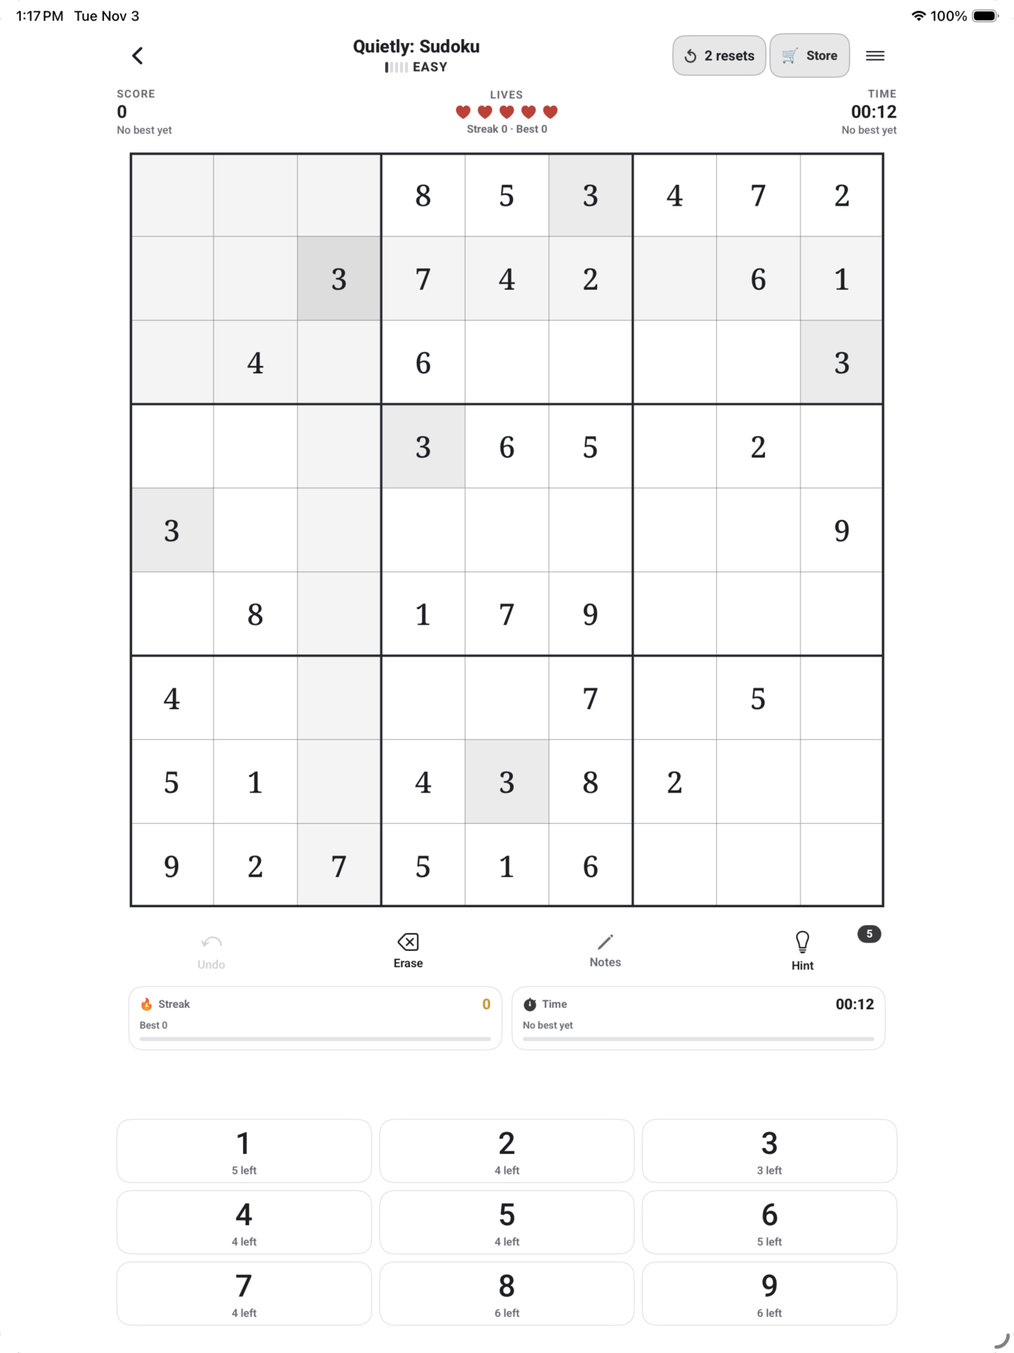
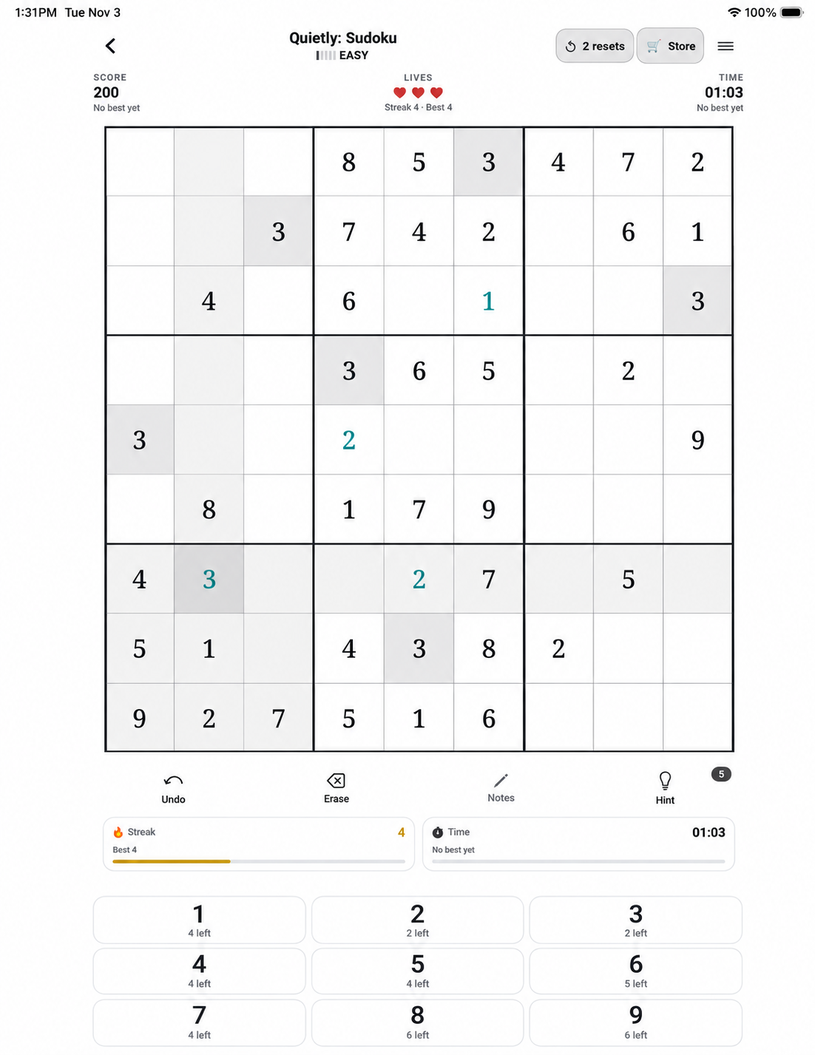
Add files via upload

diff --git a/index.html b/index.html
@@ -3,8 +3,8 @@
 <head>
   <meta charset="utf-8">
   <meta name="viewport" content="width=device-width, initial-scale=1">
-  <title>Quietly: Sudoku — a calm, ad-free Sudoku for iPhone, iPad &amp; Mac</title>
-  <meta name="description" content="A calm Sudoku for iPhone, iPad and Mac. Five levels, daily puzzles, hints that teach the next step, and no ads.">
+  <title>Quietly: Sudoku — calm, ad-free Sudoku for iPhone and iPad</title>
+  <meta name="description" content="A calm Sudoku for iPhone and iPad, with Mac coming soon. Five levels, daily puzzles, hints that teach the next step, and no ads.">
   <meta name="theme-color" content="#FFFFFF">
   <meta name="apple-itunes-app" content="app-id=6821949804">
   <link rel="canonical" href="https://astronomiku.github.io/QuietlySudoku/">
@@ -44,23 +44,32 @@
           <ul class="pills" aria-label="Highlights">
             <li>No ads</li><li>No account</li><li>Five levels</li><li>Daily puzzles</li><li>Plays offline</li>
           </ul>
-          <div class="cta"><a class="store-badge" href="https://apps.apple.com/us/app/quietly-sudoku/id6821949804" aria-label="Download Quietly: Sudoku for iPhone and iPad on the App Store"><img src="https://tools.applemarketingtools.com/api/badges/download-on-the-app-store/black/en-us?size=250x83" alt="Download on the App Store" width="160" height="53"></a><span>Free for iPhone &amp; iPad · No ads<br><span class="soon-note">Mac version coming soon</span></span></div>
+          <div class="cta"><a class="store-badge" href="https://apps.apple.com/us/app/quietly-sudoku/id6821949804" aria-label="Download Quietly: Sudoku for iPhone and iPad on the App Store"><span><small>Download on the</small>App Store</span></a><span>Free for iPhone &amp; iPad · No ads<br><span class="soon-note">Mac version coming soon</span></span></div>
         </div>
       </div>
 
-      <div class="devices" aria-label="Quietly: Sudoku on each device">
-        <figure class="device mac" style="--ar:2360/1696;--g:1.3915">
-          <img src="assets/screenshots/mac-game.png" alt="A Sudoku game in progress in Quietly: Sudoku on Mac" width="2360" height="1696">
-          <figcaption><strong>Mac <em class="soon-tag">Coming soon</em></strong><span>macOS 15 or later</span></figcaption>
-        </figure>
-        <figure class="device ipad" style="--ar:1372/1830;--g:0.7497">
-          <img src="assets/screenshots/ipad-game.png" alt="A new Easy puzzle in Quietly: Sudoku on iPad" width="1372" height="1830">
-          <figcaption><strong>iPad</strong><span>iPadOS 18 or later</span></figcaption>
-        </figure>
-        <figure class="device iphone" style="--ar:880/1912;--g:0.4603">
-          <img src="assets/screenshots/iphone-game.png" alt="A Sudoku game with notes in Quietly: Sudoku on iPhone" width="880" height="1912">
-          <figcaption><strong>iPhone</strong><span>iOS 18 or later</span></figcaption>
-        </figure>
+      <div class="device-carousel" aria-roledescription="carousel" aria-label="Quietly: Sudoku on each device" tabindex="0">
+        <div class="device-stage">
+          <button class="device-arrow device-previous" type="button" aria-label="Previous device">←</button>
+          <figure class="device iphone" data-device="iPhone">
+            <img src="assets/screenshots/iphone-game.png" alt="A Sudoku game with notes in Quietly: Sudoku on iPhone" width="880" height="1912" decoding="async">
+            <figcaption><strong>iPhone</strong><span>iOS 18 or later</span></figcaption>
+          </figure>
+          <figure class="device ipad" data-device="iPad" hidden>
+            <img src="assets/screenshots/ipad-game.png" alt="An Easy puzzle in Quietly: Sudoku on iPad with teal player entries" width="1102" height="1427" decoding="async">
+            <figcaption><strong>iPad</strong><span>iPadOS 18 or later</span></figcaption>
+          </figure>
+          <figure class="device mac" data-device="Mac" hidden>
+            <img src="assets/screenshots/mac-game.png" alt="Preview of a Sudoku game in Quietly: Sudoku for Mac" width="2360" height="1696" decoding="async">
+            <figcaption><strong>Mac <em class="soon-tag">Coming soon</em></strong><span>macOS 15 or later</span></figcaption>
+          </figure>
+          <button class="device-arrow device-next" type="button" aria-label="Next device">→</button>
+        </div>
+        <div class="device-dots" role="group" aria-label="Choose a device">
+          <button class="active" type="button" data-device-index="0" aria-label="Show iPhone" aria-current="true"></button>
+          <button type="button" data-device-index="1" aria-label="Show iPad" aria-current="false"></button>
+          <button type="button" data-device-index="2" aria-label="Show Mac" aria-current="false"></button>
+        </div>
       </div>
     </header>
 
@@ -83,7 +92,7 @@
       </div>
       <div class="feature-grid">
         <article><span class="glyph" aria-hidden="true">?</span><h3>Hints that teach</h3><p>Step-by-step clues point you to the deduction first, so you learn the technique instead of copying the answer.</p></article>
-        <article><span class="glyph" aria-hidden="true">5</span><h3>Graded by logic</h3><p>Puzzles are graded by the techniques it takes to solve them, not by how many clues they show.</p></article>
+        <article><span class="glyph" aria-hidden="true">5</span><h3>Graded by logic</h3><p>Puzzles are graded by the techniques they take to solve, not by how many clues they show.</p></article>
         <article><span class="glyph" aria-hidden="true">✎</span><h3>Your notes, your work</h3><p>Pencil marks are never filled in for you. The solving stays yours.</p></article>
         <article><span class="glyph" aria-hidden="true">↺</span><h3>Records, not rankings</h3><p>Best scores, best times and clean streaks, measured only against yourself.</p></article>
         <article><span class="glyph" aria-hidden="true">Aa</span><h3>Play your way</h3><p>Six calm board themes including a low-glare dark one, larger numbers, left-handed controls and sound you can switch off.</p></article>
@@ -106,7 +115,7 @@
         <div class="carousel-stage">
           <button class="carousel-arrow previous" type="button" aria-label="Previous screenshot">←</button>
           <figure>
-            <div class="carousel-image"><img src="assets/screenshots/iphone-home.png" alt="Quietly: Sudoku home screen on iPhone showing five difficulty levels"></div>
+            <div class="carousel-image"><img src="assets/screenshots/iphone-home.png" alt="Quietly: Sudoku home screen on iPhone showing five difficulty levels" decoding="async"></div>
             <figcaption><span class="carousel-platform">iPhone</span><strong class="carousel-title">Five levels with clear progression</strong><small class="carousel-count" aria-live="polite">1 / 6</small></figcaption>
           </figure>
           <button class="carousel-arrow next" type="button" aria-label="Next screenshot">→</button>
@@ -132,7 +141,7 @@
       <div>
         <p class="eyebrow">Free on the App Store</p>
         <h2>Give every puzzle<br><em>room to breathe.</em></h2>
-        <div class="cta"><a class="store-badge" href="https://apps.apple.com/us/app/quietly-sudoku/id6821949804" aria-label="Download Quietly: Sudoku for iPhone and iPad on the App Store"><img src="https://tools.applemarketingtools.com/api/badges/download-on-the-app-store/black/en-us?size=250x83" alt="Download on the App Store" width="160" height="53"></a><span>Available now for iPhone &amp; iPad. Mac coming soon.<br>Questions or ideas? <a href="support/">Get in touch</a>.</span></div>
+        <div class="cta"><a class="store-badge" href="https://apps.apple.com/us/app/quietly-sudoku/id6821949804" aria-label="Download Quietly: Sudoku for iPhone and iPad on the App Store"><span><small>Download on the</small>App Store</span></a><span>Available now for iPhone &amp; iPad. Mac coming soon.<br>Questions or ideas? <a href="support/">Get in touch</a>.</span></div>
       </div>
     </section>
   </main>

diff --git a/styles.css b/styles.css
@@ -1,11 +1,7 @@
-/* Quietly: Sudoku — site styles in the app's Classic theme (Theme.swift → classic). */
 :root{
   color-scheme:light;
-  /* Matches what the app actually draws for Classic (Theme.swift: shared light
-     palette + Classic accents). Keep the two in sync. */
   --bg:#FFFFFF;--surface:#FFFFFF;--ink:#1C1E23;--muted:#676B73;
-  --thick:#25272D;--thin:#D8DBE1;--peer:#F3F4F6;--same:#E3E3E4;--sel:#D4D4D4;--sel-fg:#2C2C2E;
-  --entry:#007C83;--err:#C9342F;--err-bg:#FBE8E6;--border:#E2E4E8;--soft:#E7E7E8;--accent:#3A3A3C;
+  --thin:#D8DBE1;--border:#E2E4E8;--accent:#3A3A3C;
   --serif:"Noto Serif",Georgia,serif;
   --sans:Roboto,-apple-system,BlinkMacSystemFont,"Segoe UI",sans-serif;
 }
@@ -48,28 +44,6 @@ h1 em,h2 em{font-family:var(--serif);font-style:italic;font-weight:400;letter-sp
 .pills li{border:1px solid var(--thin);border-radius:999px;padding:7px 14px;background:var(--surface);font-weight:500;font-size:.88rem}
 .soon{display:inline-flex;align-items:center;gap:10px;margin:34px 0 0;padding:10px 16px;border:1px solid var(--thin);border-radius:999px;background:var(--surface);color:var(--ink);font-weight:500;font-size:.92rem}
 .soon::before{content:"";width:8px;height:8px;border-radius:50%;background:var(--accent)}
-
-/* Live board (mirrors the in-app Classic board) */
-.board-wrap{margin:0}
-.board{display:grid;grid-template-columns:repeat(9,1fr);aspect-ratio:1;background:var(--surface);border:3px solid var(--thick);border-radius:4px;box-shadow:0 30px 60px -30px rgba(28,30,35,.35);user-select:none}
-.board button{appearance:none;position:relative;display:grid;place-items:center;min-width:0;padding:0;border:0;border-right:1px solid var(--thin);border-bottom:1px solid var(--thin);background:var(--surface);color:var(--ink);font:400 clamp(1.05rem,3.4vw,1.85rem)/1 var(--serif);cursor:pointer;transition:background-color .15s}
-.board button:nth-child(9n){border-right:0}
-.board button:nth-child(9n+3),.board button:nth-child(9n+6){border-right:2px solid var(--thick)}
-.board button:nth-child(n+19):nth-child(-n+27),.board button:nth-child(n+46):nth-child(-n+54){border-bottom:2px solid var(--thick)}
-.board button:nth-child(n+73){border-bottom:0}
-.board button.peer{background:var(--peer)}
-.board button.same{background:var(--same);font-weight:600}
-.board button.sel{background:var(--sel);color:var(--sel-fg)}
-.board button.entry{color:var(--entry)}
-.board button.err{background:var(--err-bg);color:var(--err);text-decoration:underline;text-decoration-thickness:2px;text-underline-offset:4px}
-.board button.notes{grid-template-columns:repeat(3,1fr);grid-template-rows:repeat(3,1fr);place-items:center;font-size:clamp(.5rem,1.1vw,.68rem);color:var(--muted)}
-.board-wrap figcaption{display:flex;flex-wrap:wrap;gap:6px 18px;margin-top:16px;color:var(--muted);font-size:.84rem}
-.key{display:inline-flex;align-items:center;gap:7px}
-.key i{display:inline-block;width:12px;height:12px;border-radius:3px;border:1px solid var(--thin)}
-.key .k-given{background:var(--ink);border-color:var(--ink)}
-.key .k-entry{background:var(--entry);border-color:var(--entry)}
-.key .k-err{background:var(--err);border-color:var(--err)}
-.key .k-peer{background:var(--peer)}
 
 /* How it plays */
 .steps{display:grid;grid-template-columns:repeat(4,minmax(0,1fr));gap:0;margin:0;padding:0;list-style:none;counter-reset:step;border-top:2px solid var(--ink)}
@@ -172,25 +146,38 @@ h1 em,h2 em{font-family:var(--serif);font-style:italic;font-weight:400;letter-sp
 .cta{display:flex;flex-wrap:wrap;align-items:center;gap:14px 20px;margin-top:34px}
 .closing .cta{margin-top:22px}
 .cta>span{color:var(--muted);font-size:.92rem}
-.store-badge{display:inline-block;line-height:0;border-radius:10px;transition:opacity .15s}
+.store-badge{display:inline-flex;align-items:center;min-width:160px;min-height:52px;padding:7px 16px;border-radius:10px;background:#000;color:#fff;text-decoration:none;line-height:1;transition:opacity .15s}
 .store-badge:hover{opacity:.82}
-.store-badge img{display:block;width:160px;height:auto;min-height:44px}
+.store-badge>span{display:flex;flex-direction:column;gap:2px;font-size:1.08rem;font-weight:500;letter-spacing:-.02em}
+.store-badge small{font-size:.63rem;font-weight:400;letter-spacing:0}
 .nav-get{color:var(--ink)!important;border:1px solid var(--thin);border-radius:999px;padding:4px 14px;margin:-5px 0;background:var(--surface)}
 @media(max-width:620px){.nav-get{display:none}}
 
-@media(prefers-reduced-motion:reduce){html{scroll-behavior:auto}.board button{transition:none}}
+@media(prefers-reduced-motion:reduce){html{scroll-behavior:auto}}
 
-/* Hero device screenshots: flex-grow = aspect ratio, so all three share one height */
-.devices{display:flex;align-items:flex-end;gap:clamp(16px,3vw,36px)}
-.device{flex:var(--g) 1 0;min-width:0;margin:0}
-.device img{display:block;width:100%;height:auto;aspect-ratio:var(--ar);filter:drop-shadow(0 18px 28px rgba(28,30,35,.16)) drop-shadow(0 0 1px rgba(28,30,35,.35))}
+.device-carousel{padding:24px;border:1px solid var(--border);border-radius:24px;background:var(--surface)}
+.device-stage{position:relative;display:grid;grid-template-columns:minmax(0,1fr);align-items:center;min-height:650px}
+.device{display:grid;place-items:center;min-width:0;margin:0}
+.device[hidden]{display:none}
+.device img{display:block;width:auto;height:auto;max-width:100%;max-height:570px;filter:drop-shadow(0 18px 28px rgba(28,30,35,.16)) drop-shadow(0 0 1px rgba(28,30,35,.35))}
 .device.ipad img{border-radius:12px}
 .device figcaption{display:flex;flex-direction:column;align-items:center;margin-top:18px;text-align:center;line-height:1.3}
 .device figcaption strong{font-size:1rem}
 .device figcaption span{color:var(--muted);font-size:.84rem}
+.device-arrow{position:absolute;top:50%;z-index:2;display:grid;place-items:center;width:48px;height:48px;border:1px solid var(--thin);border-radius:50%;background:rgba(255,255,255,.92);color:var(--ink);font-size:1.2rem;cursor:pointer;transform:translateY(-50%)}
+.device-previous{left:0}
+.device-next{right:0}
+.device-arrow:hover{border-color:var(--ink)}
+.device-dots{display:flex;justify-content:center;gap:9px;margin-top:18px}
+.device-dots button{width:9px;height:9px;padding:0;border:0;border-radius:999px;background:var(--thin);cursor:pointer}
+.device-dots button.active{width:28px;background:var(--ink)}
 @media(max-width:620px){
-  .devices{flex-wrap:wrap;gap:28px 16px}
-  .device.mac{flex-basis:100%}
+  .device-carousel{padding:14px;border-radius:18px}
+  .device-stage{min-height:540px}
+  .device img{max-height:450px}
+  .device-arrow{width:40px;height:40px}
+  .device-previous{left:2px}
+  .device-next{right:2px}
 }
 .soon-note{color:var(--ink);font-weight:500}
 .soon-tag{display:inline-block;margin-left:6px;padding:1px 8px;border:1px solid var(--thin);border-radius:999px;font-style:normal;font-size:.72rem;font-weight:500;color:var(--muted);vertical-align:2px}

diff --git a/carousel.js b/carousel.js
@@ -8,10 +8,8 @@ const screenshots = {
     ["assets/screenshots/iphone-store.png", "Optional extras. No ads, ever.", "Quietly Sudoku optional extras store on iPhone"]
   ],
   iPad: [
-    ["assets/screenshots/ipad-home.png", "Five levels and daily puzzles", "Quietly Sudoku home screen on iPad"],
-    ["assets/screenshots/ipad-game.png", "A spacious board and clear controls", "Quietly Sudoku game board on iPad"],
-    ["assets/screenshots/ipad-hint.png", "Guidance without giving it away", "Quietly Sudoku progressive hint on iPad"],
-    ["assets/screenshots/ipad-settings.png", "Themes and accessible controls", "Quietly Sudoku settings on iPad"]
+    ["assets/screenshots/ipad-game.png", "A spacious board with clear teal entries", "Quietly Sudoku game board on iPad with teal player entries"],
+    ["assets/screenshots/ipad-wrong.png", "Mistakes are clear without being harsh", "Quietly Sudoku game board on iPad showing a red underlined wrong entry on a pale red cell"]
   ],
   Mac: [
     ["assets/screenshots/mac-home.png", "Five levels, daily puzzles, personal records", "Quietly Sudoku home screen on Mac"],
@@ -22,6 +20,49 @@ const screenshots = {
 };
 
 const carousel = document.querySelector(".carousel");
+
+const deviceCarousel = document.querySelector(".device-carousel");
+
+if (deviceCarousel) {
+  const devices = [...deviceCarousel.querySelectorAll(".device")];
+  const dots = [...deviceCarousel.querySelectorAll(".device-dots button")];
+  let deviceIndex = 0;
+  let deviceTouchStart = 0;
+
+  function renderDevice() {
+    devices.forEach((device, index) => { device.hidden = index !== deviceIndex; });
+    dots.forEach((dot, index) => {
+      const active = index === deviceIndex;
+      dot.classList.toggle("active", active);
+      dot.setAttribute("aria-current", String(active));
+    });
+  }
+
+  function moveDevice(direction) {
+    deviceIndex = (deviceIndex + direction + devices.length) % devices.length;
+    renderDevice();
+  }
+
+  dots.forEach((dot, index) => dot.addEventListener("click", () => {
+    deviceIndex = index;
+    renderDevice();
+  }));
+  deviceCarousel.querySelector(".device-previous").addEventListener("click", () => moveDevice(-1));
+  deviceCarousel.querySelector(".device-next").addEventListener("click", () => moveDevice(1));
+  deviceCarousel.addEventListener("keydown", (event) => {
+    if (event.key === "ArrowLeft") moveDevice(-1);
+    if (event.key === "ArrowRight") moveDevice(1);
+  });
+  deviceCarousel.addEventListener("touchstart", (event) => {
+    deviceTouchStart = event.changedTouches[0].clientX;
+  }, { passive: true });
+  deviceCarousel.addEventListener("touchend", (event) => {
+    const distance = event.changedTouches[0].clientX - deviceTouchStart;
+    if (Math.abs(distance) > 45) moveDevice(distance > 0 ? -1 : 1);
+  }, { passive: true });
+
+  renderDevice();
+}
 
 if (carousel) {
   const image = carousel.querySelector(".carousel-image img");
@@ -42,7 +83,11 @@ if (carousel) {
     platformLabel.textContent = platform;
     title.textContent = caption;
     count.textContent = `${index + 1} / ${slides.length}`;
-    tabs.forEach((tab) => tab.classList.toggle("active", tab.dataset.platform === platform));
+    tabs.forEach((tab) => {
+      const active = tab.dataset.platform === platform;
+      tab.classList.toggle("active", active);
+      tab.setAttribute("aria-pressed", String(active));
+    });
     dots.replaceChildren(...slides.map((_, dotIndex) => {
       const dot = document.createElement("button");
       dot.type = "button";

diff --git a/docs/index.html b/docs/index.html
@@ -48,19 +48,28 @@
         </div>
       </div>
 
-      <div class="devices" aria-label="Quietly: Sudoku on each device">
-        <figure class="device mac" style="--ar:2360/1696;--g:1.3915">
-          <img src="assets/screenshots/mac-game.png" alt="Preview of a Sudoku game in Quietly: Sudoku for Mac" width="2360" height="1696" decoding="async">
-          <figcaption><strong>Mac <em class="soon-tag">Coming soon</em></strong><span>macOS 15 or later</span></figcaption>
-        </figure>
-        <figure class="device ipad" style="--ar:1372/1830;--g:0.7497">
-          <img src="assets/screenshots/ipad-game.png" alt="A new Easy puzzle in Quietly: Sudoku on iPad" width="1372" height="1830" decoding="async">
-          <figcaption><strong>iPad</strong><span>iPadOS 18 or later</span></figcaption>
-        </figure>
-        <figure class="device iphone" style="--ar:880/1912;--g:0.4603">
-          <img src="assets/screenshots/iphone-game.png" alt="A Sudoku game with notes in Quietly: Sudoku on iPhone" width="880" height="1912" decoding="async">
-          <figcaption><strong>iPhone</strong><span>iOS 18 or later</span></figcaption>
-        </figure>
+      <div class="device-carousel" aria-roledescription="carousel" aria-label="Quietly: Sudoku on each device" tabindex="0">
+        <div class="device-stage">
+          <button class="device-arrow device-previous" type="button" aria-label="Previous device">←</button>
+          <figure class="device iphone" data-device="iPhone">
+            <img src="assets/screenshots/iphone-game.png" alt="A Sudoku game with notes in Quietly: Sudoku on iPhone" width="880" height="1912" decoding="async">
+            <figcaption><strong>iPhone</strong><span>iOS 18 or later</span></figcaption>
+          </figure>
+          <figure class="device ipad" data-device="iPad" hidden>
+            <img src="assets/screenshots/ipad-game.png" alt="An Easy puzzle in Quietly: Sudoku on iPad with teal player entries" width="1102" height="1427" decoding="async">
+            <figcaption><strong>iPad</strong><span>iPadOS 18 or later</span></figcaption>
+          </figure>
+          <figure class="device mac" data-device="Mac" hidden>
+            <img src="assets/screenshots/mac-game.png" alt="Preview of a Sudoku game in Quietly: Sudoku for Mac" width="2360" height="1696" decoding="async">
+            <figcaption><strong>Mac <em class="soon-tag">Coming soon</em></strong><span>macOS 15 or later</span></figcaption>
+          </figure>
+          <button class="device-arrow device-next" type="button" aria-label="Next device">→</button>
+        </div>
+        <div class="device-dots" role="group" aria-label="Choose a device">
+          <button class="active" type="button" data-device-index="0" aria-label="Show iPhone" aria-current="true"></button>
+          <button type="button" data-device-index="1" aria-label="Show iPad" aria-current="false"></button>
+          <button type="button" data-device-index="2" aria-label="Show Mac" aria-current="false"></button>
+        </div>
       </div>
     </header>
 

diff --git a/docs/carousel.js b/docs/carousel.js
@@ -8,10 +8,8 @@ const screenshots = {
     ["assets/screenshots/iphone-store.png", "Optional extras. No ads, ever.", "Quietly Sudoku optional extras store on iPhone"]
   ],
   iPad: [
-    ["assets/screenshots/ipad-home.png", "Five levels and daily puzzles", "Quietly Sudoku home screen on iPad"],
-    ["assets/screenshots/ipad-game.png", "A spacious board and clear controls", "Quietly Sudoku game board on iPad"],
-    ["assets/screenshots/ipad-hint.png", "Guidance without giving it away", "Quietly Sudoku progressive hint on iPad"],
-    ["assets/screenshots/ipad-settings.png", "Themes and accessible controls", "Quietly Sudoku settings on iPad"]
+    ["assets/screenshots/ipad-game.png", "A spacious board with clear teal entries", "Quietly Sudoku game board on iPad with teal player entries"],
+    ["assets/screenshots/ipad-wrong.png", "Mistakes are clear without being harsh", "Quietly Sudoku game board on iPad showing a red underlined wrong entry on a pale red cell"]
   ],
   Mac: [
     ["assets/screenshots/mac-home.png", "Five levels, daily puzzles, personal records", "Quietly Sudoku home screen on Mac"],
@@ -22,6 +20,49 @@ const screenshots = {
 };
 
 const carousel = document.querySelector(".carousel");
+
+const deviceCarousel = document.querySelector(".device-carousel");
+
+if (deviceCarousel) {
+  const devices = [...deviceCarousel.querySelectorAll(".device")];
+  const dots = [...deviceCarousel.querySelectorAll(".device-dots button")];
+  let deviceIndex = 0;
+  let deviceTouchStart = 0;
+
+  function renderDevice() {
+    devices.forEach((device, index) => { device.hidden = index !== deviceIndex; });
+    dots.forEach((dot, index) => {
+      const active = index === deviceIndex;
+      dot.classList.toggle("active", active);
+      dot.setAttribute("aria-current", String(active));
+    });
+  }
+
+  function moveDevice(direction) {
+    deviceIndex = (deviceIndex + direction + devices.length) % devices.length;
+    renderDevice();
+  }
+
+  dots.forEach((dot, index) => dot.addEventListener("click", () => {
+    deviceIndex = index;
+    renderDevice();
+  }));
+  deviceCarousel.querySelector(".device-previous").addEventListener("click", () => moveDevice(-1));
+  deviceCarousel.querySelector(".device-next").addEventListener("click", () => moveDevice(1));
+  deviceCarousel.addEventListener("keydown", (event) => {
+    if (event.key === "ArrowLeft") moveDevice(-1);
+    if (event.key === "ArrowRight") moveDevice(1);
+  });
+  deviceCarousel.addEventListener("touchstart", (event) => {
+    deviceTouchStart = event.changedTouches[0].clientX;
+  }, { passive: true });
+  deviceCarousel.addEventListener("touchend", (event) => {
+    const distance = event.changedTouches[0].clientX - deviceTouchStart;
+    if (Math.abs(distance) > 45) moveDevice(distance > 0 ? -1 : 1);
+  }, { passive: true });
+
+  renderDevice();
+}
 
 if (carousel) {
   const image = carousel.querySelector(".carousel-image img");

diff --git a/docs/styles.css b/docs/styles.css
@@ -155,17 +155,29 @@ h1 em,h2 em{font-family:var(--serif);font-style:italic;font-weight:400;letter-sp
 
 @media(prefers-reduced-motion:reduce){html{scroll-behavior:auto}}
 
-/* Hero device screenshots: flex-grow = aspect ratio, so all three share one height */
-.devices{display:flex;align-items:flex-end;gap:clamp(16px,3vw,36px)}
-.device{flex:var(--g) 1 0;min-width:0;margin:0}
-.device img{display:block;width:100%;height:auto;aspect-ratio:var(--ar);filter:drop-shadow(0 18px 28px rgba(28,30,35,.16)) drop-shadow(0 0 1px rgba(28,30,35,.35))}
+.device-carousel{padding:24px;border:1px solid var(--border);border-radius:24px;background:var(--surface)}
+.device-stage{position:relative;display:grid;grid-template-columns:minmax(0,1fr);align-items:center;min-height:650px}
+.device{display:grid;place-items:center;min-width:0;margin:0}
+.device[hidden]{display:none}
+.device img{display:block;width:auto;height:auto;max-width:100%;max-height:570px;filter:drop-shadow(0 18px 28px rgba(28,30,35,.16)) drop-shadow(0 0 1px rgba(28,30,35,.35))}
 .device.ipad img{border-radius:12px}
 .device figcaption{display:flex;flex-direction:column;align-items:center;margin-top:18px;text-align:center;line-height:1.3}
 .device figcaption strong{font-size:1rem}
 .device figcaption span{color:var(--muted);font-size:.84rem}
+.device-arrow{position:absolute;top:50%;z-index:2;display:grid;place-items:center;width:48px;height:48px;border:1px solid var(--thin);border-radius:50%;background:rgba(255,255,255,.92);color:var(--ink);font-size:1.2rem;cursor:pointer;transform:translateY(-50%)}
+.device-previous{left:0}
+.device-next{right:0}
+.device-arrow:hover{border-color:var(--ink)}
+.device-dots{display:flex;justify-content:center;gap:9px;margin-top:18px}
+.device-dots button{width:9px;height:9px;padding:0;border:0;border-radius:999px;background:var(--thin);cursor:pointer}
+.device-dots button.active{width:28px;background:var(--ink)}
 @media(max-width:620px){
-  .devices{flex-wrap:wrap;gap:28px 16px}
-  .device.mac{flex-basis:100%}
+  .device-carousel{padding:14px;border-radius:18px}
+  .device-stage{min-height:540px}
+  .device img{max-height:450px}
+  .device-arrow{width:40px;height:40px}
+  .device-previous{left:2px}
+  .device-next{right:2px}
 }
 .soon-note{color:var(--ink);font-weight:500}
 .soon-tag{display:inline-block;margin-left:6px;padding:1px 8px;border:1px solid var(--thin);border-radius:999px;font-style:normal;font-size:.72rem;font-weight:500;color:var(--muted);vertical-align:2px}
